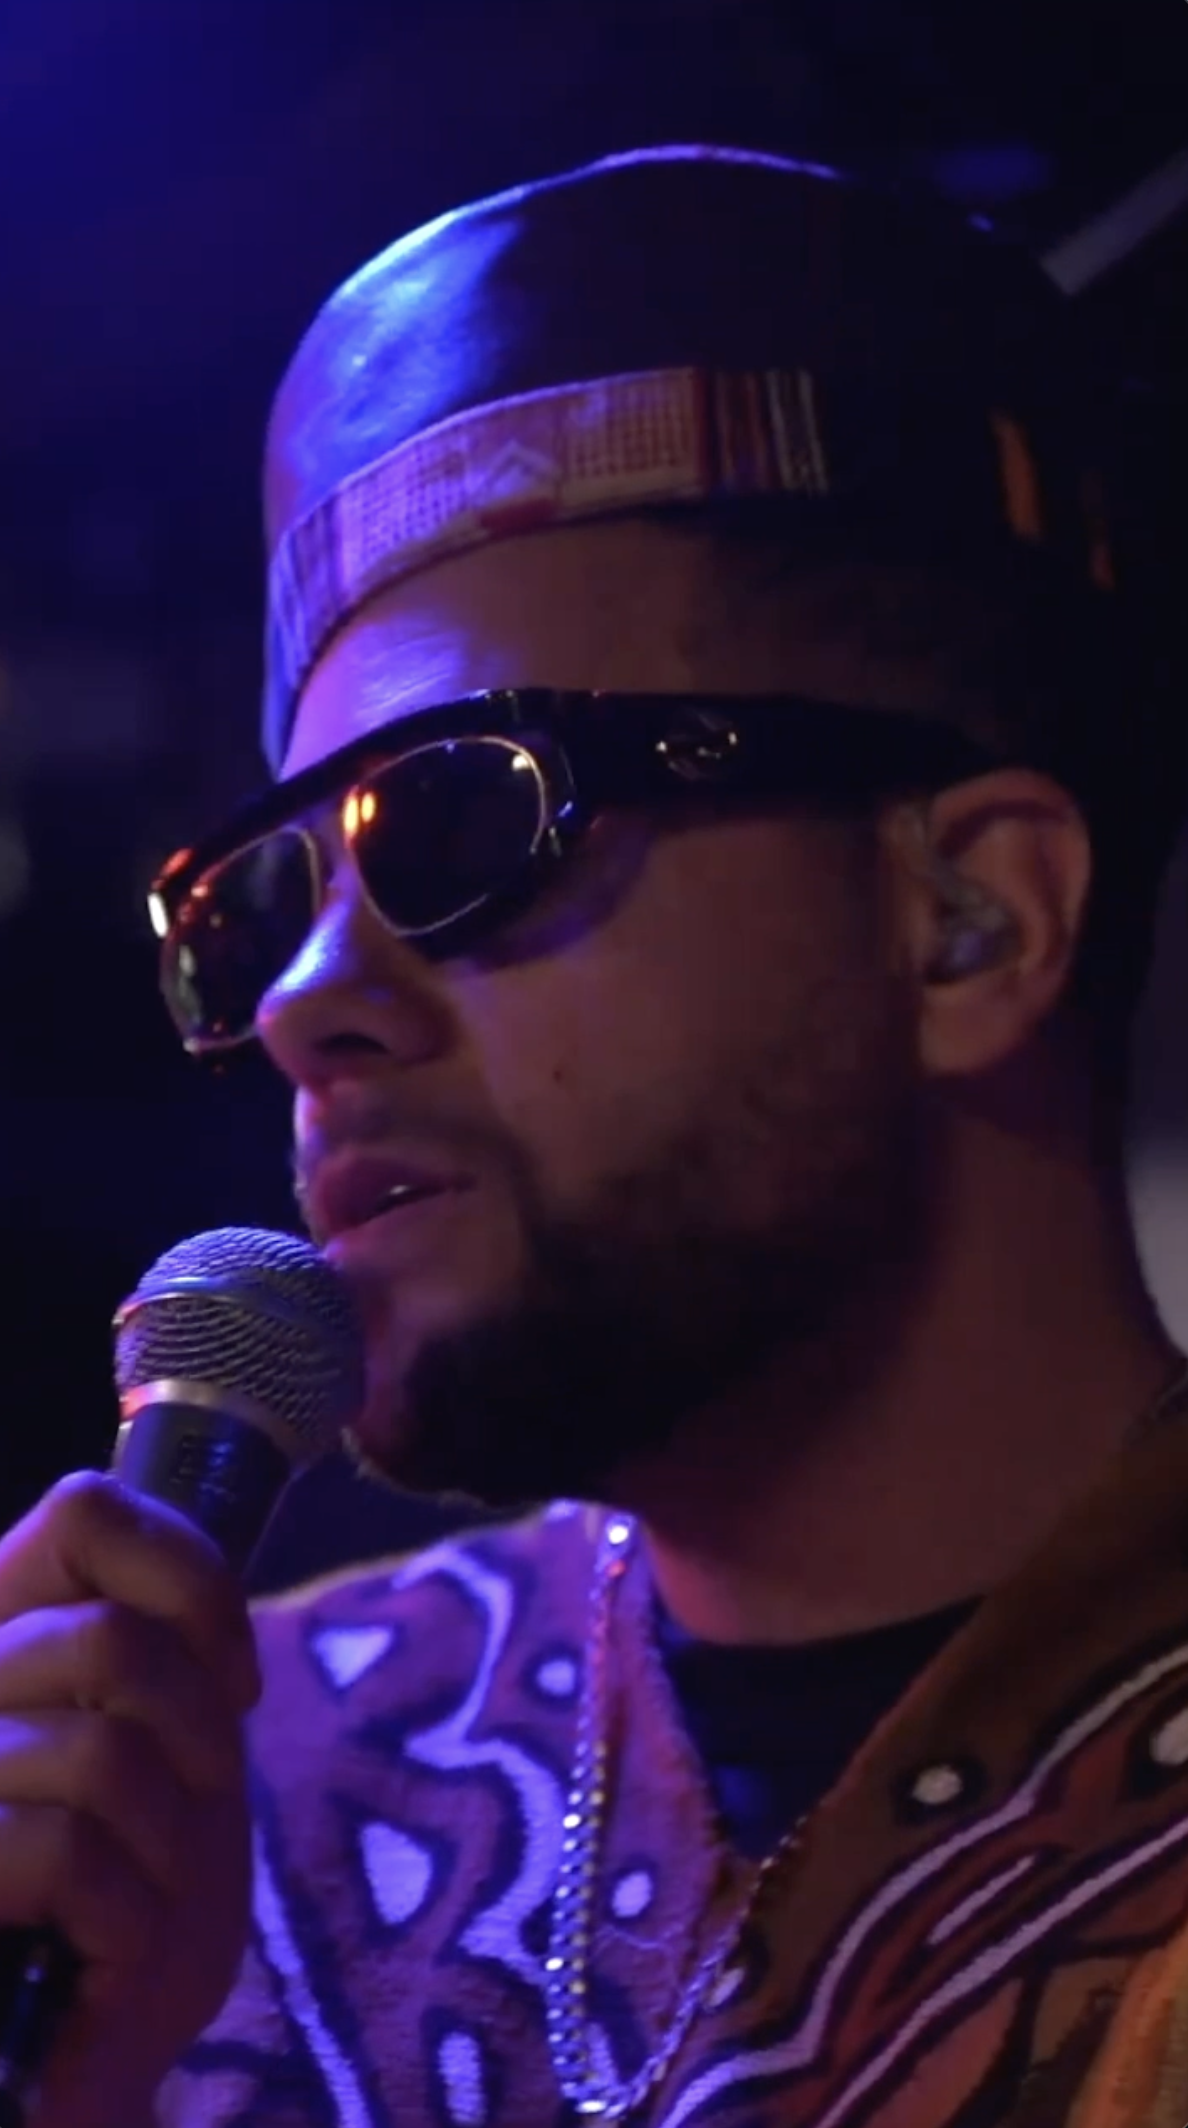
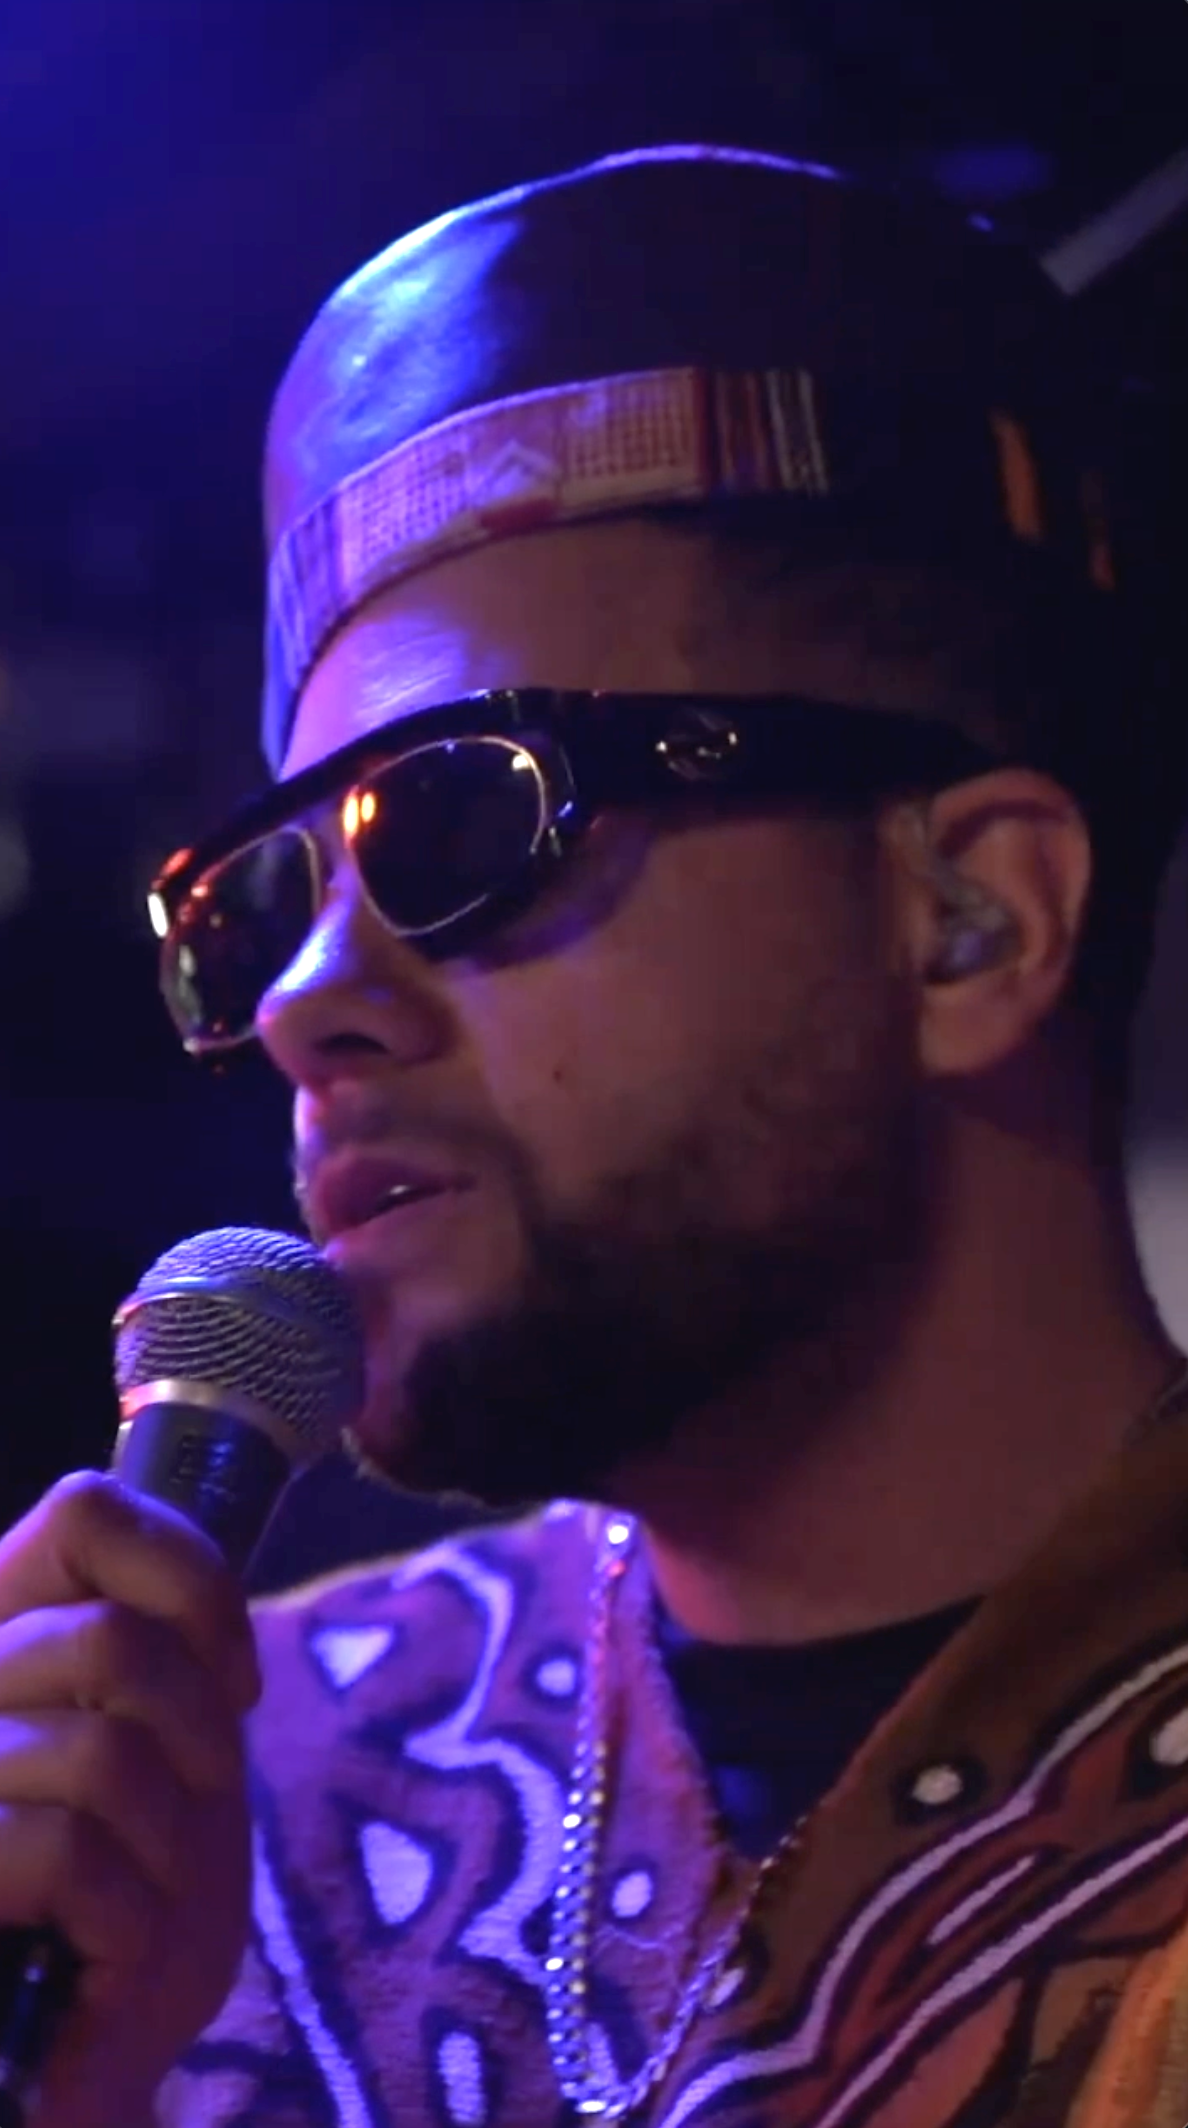
small text changes and removing some images

diff --git a/work.html b/work.html
@@ -108,7 +108,7 @@
 
         <div class="feature-copy">
           
-          <h2>Artist Management</h2>
+          <h2>Kassa Overall</h2>
           <p>
             Through an ongoing employment opportunity with Kassa Overall, a Grammy-nominated artist and producer in Seattle,
             I am gaining experience in artist management and brand marketing.  

diff --git a/styles.css b/styles.css
@@ -1165,7 +1165,7 @@ img {
 
   height: 64px;
 
-  margin-bottom: -64px;
+  margin-bottom: -54px;
 
   background: white;
 
